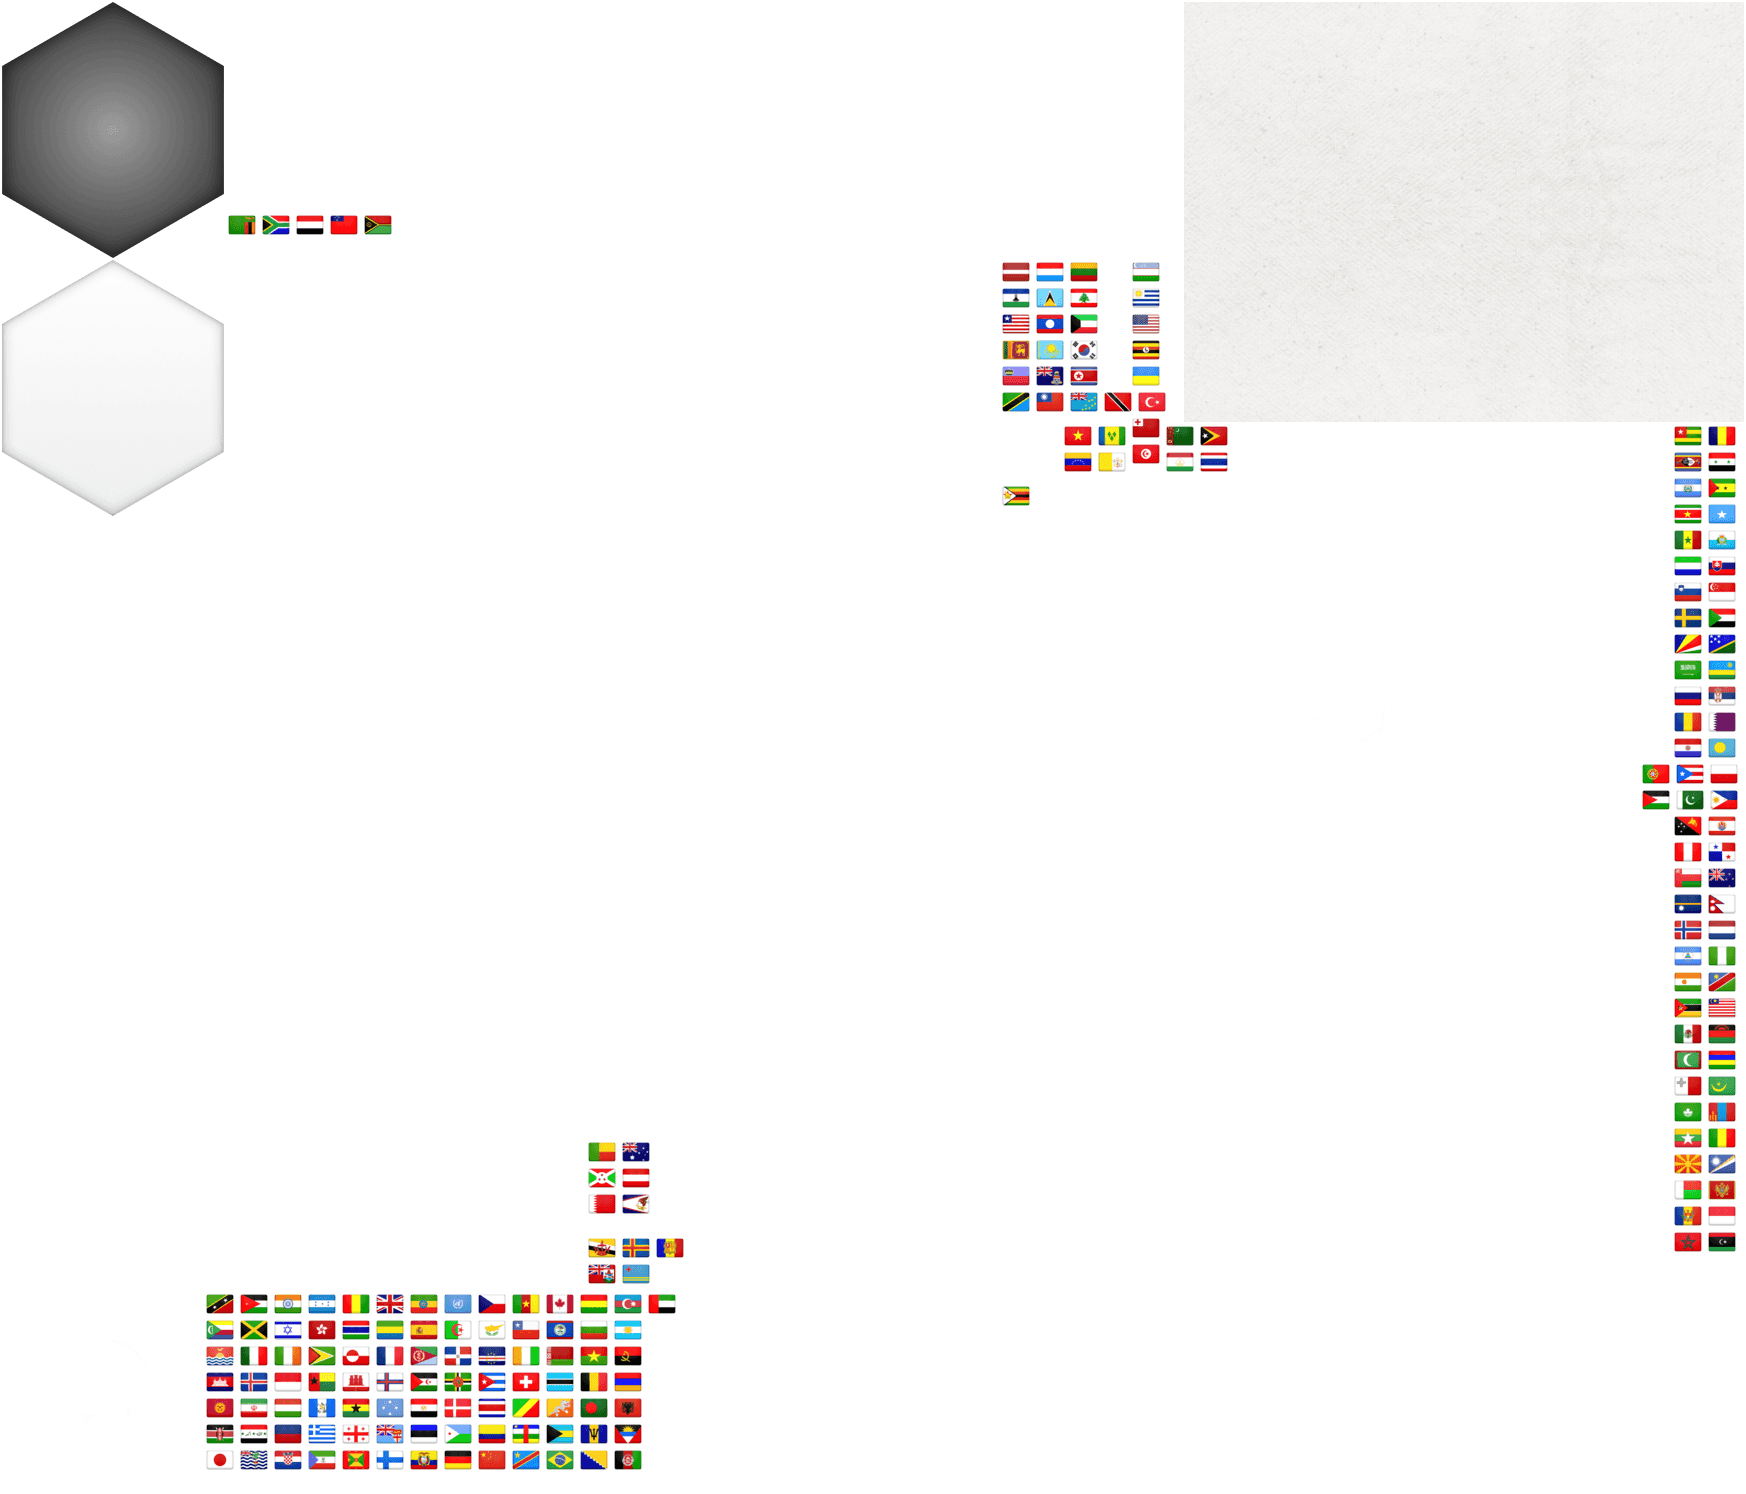
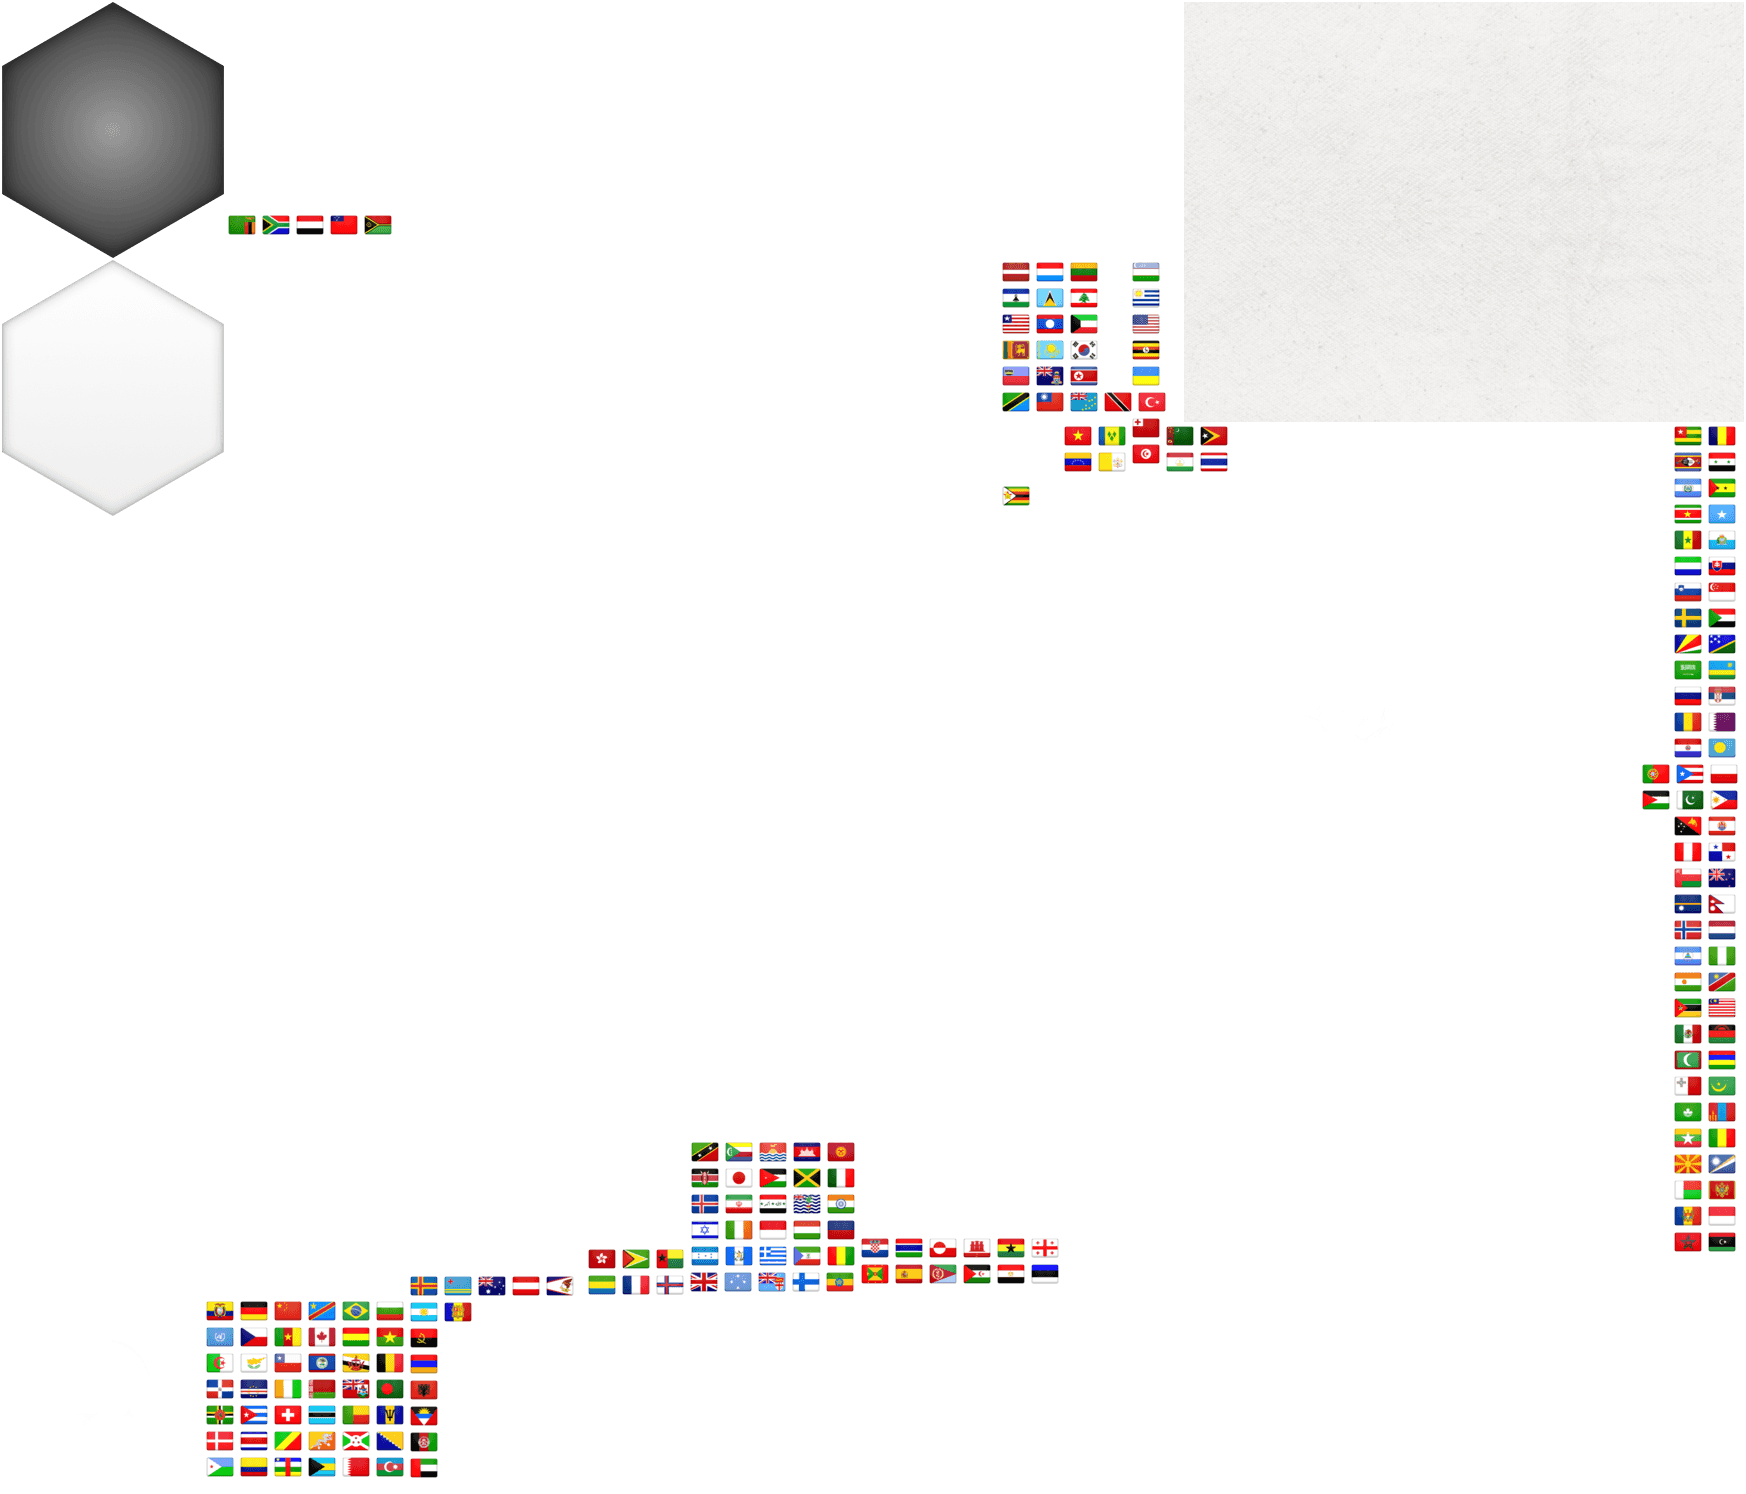
Great Work (View)

Changed region(s): [[0.0928, 0.739, 0.6186, 1.0]]

diff --git a/packages/client/src/scenes/WorldScene.ts b/packages/client/src/scenes/WorldScene.ts
@@ -15,11 +15,13 @@ import {
 } from "pixi.js";
 import { Fonts } from "../Fonts";
 import { Goods } from "../game/definitions/Goods";
+import { GreatWork, TileToGreatWork } from "../game/definitions/GreatWork";
 import type { Province } from "../game/definitions/Province";
 import type { Terrain } from "../game/definitions/Terrain";
 import { getTileName } from "../game/definitions/TileName";
 import { GameStateUpdated, RefreshOverlay, RefreshTiles } from "../game/Events";
 import { isLand, LandSize } from "../game/Land";
+import { getGameDate } from "../game/logic/GameDateTime";
 import { MapBackgroundColors, MapColorsH, MapForegroundColors, MapTextColors } from "../game/logic/MapColor";
 import { findProvinceLabelPosition } from "../game/logic/MapLogic";
 import { getProvinceName } from "../game/logic/ProvinceLogic";
@@ -159,7 +161,7 @@ export class WorldScene extends Scene {
       });
 
       RefreshOverlay.on(() => {
-         for (const [tile, visual] of this._overlayContainer.map) {
+         for (const [tile, tileData] of G.save.state.tiles) {
             this._renderOverlay(tile);
          }
       });
@@ -167,9 +169,9 @@ export class WorldScene extends Scene {
       GameStateUpdated.on(() => {
          switch (getOverlay()) {
             case "Upgrade": {
-               for (const [tile, visual] of this._overlayContainer.map) {
-                  const tileData = G.save.state.tiles.get(tile);
-                  if (tileData) {
+               for (const [tile, tileData] of G.save.state.tiles) {
+                  const visual = this._overlayContainer.map.get(tile);
+                  if (visual) {
                      const text = visual as UnicodeText;
                      text.text = `${tileData.infrastructure + tileData.production + tileData.population}`;
                      this._adjustTextSize(text);
@@ -178,9 +180,9 @@ export class WorldScene extends Scene {
                break;
             }
             case "Defense": {
-               for (const [tile, visual] of this._overlayContainer.map) {
-                  const tileData = G.save.state.tiles.get(tile);
-                  if (tileData) {
+               for (const [tile, tileData] of G.save.state.tiles) {
+                  const visual = this._overlayContainer.map.get(tile);
+                  if (visual) {
                      const text = visual as UnicodeText;
                      text.text = `${round(getTileDefense(tile, G.save).value, 1)}`;
                      this._adjustTextSize(text);
@@ -189,12 +191,22 @@ export class WorldScene extends Scene {
                break;
             }
             case "Maintenance": {
-               for (const [tile, visual] of this._overlayContainer.map) {
-                  const tileData = G.save.state.tiles.get(tile);
-                  if (tileData) {
+               for (const [tile, tileData] of G.save.state.tiles) {
+                  const visual = this._overlayContainer.map.get(tile);
+                  if (visual) {
                      const text = visual as UnicodeText;
                      text.text = `${round(getTileMaintenanceCost(tile, G.save).value, 1)}`;
                      this._adjustTextSize(text);
+                  }
+               }
+               break;
+            }
+            case "GreatWorks": {
+               for (const [tile, tileData] of G.save.state.tiles) {
+                  const visual = this._overlayContainer.map.get(tile);
+                  const gw = TileToGreatWork.get(tile);
+                  if (visual && gw) {
+                     visual.visible = getGameDate(G.save.state.tick).getFullYear() >= GreatWork[gw].completionYear;
                   }
                }
                break;
@@ -290,6 +302,21 @@ export class WorldScene extends Scene {
             visual.anchor.set(0.5, 0.5);
             visual.position.set(x, y);
             visual.tint = MapForegroundColors[tileData.province];
+            break;
+         }
+         case "GreatWorks": {
+            const gw = TileToGreatWork.get(tile);
+            if (gw) {
+               const visual = new Sprite(G.textures.get("Misc/GreatWork"));
+               this._overlayContainer.map.set(tile, visual);
+               visual.anchor.set(0.5, 0.5);
+               visual.position.set(x, y - 5);
+               visual.scale.set(0.5);
+               visual.tint = MapForegroundColors[tileData.province];
+               visual.visible = getGameDate(G.save.state.tick).getFullYear() >= GreatWork[gw].completionYear;
+            } else {
+               this._overlayContainer.map.delete(tile);
+            }
             break;
          }
       }

diff --git a/packages/client/src/scenes/Overlays.ts b/packages/client/src/scenes/Overlays.ts
@@ -18,6 +18,7 @@ export const Overlays = {
    Upgrade: () => $t(L.Upgrade),
    Defense: () => $t(L.Defense),
    Maintenance: () => $t(L.Maintenance),
+   GreatWorks: () => $t(L.GreatWorks),
 } as const satisfies Record<string, () => string>;
 
 export type OverlayType = keyof typeof Overlays;

diff --git a/packages/client/src/game/logic/MapColor.ts b/packages/client/src/game/logic/MapColor.ts
@@ -23,7 +23,7 @@ export const MapForegroundColors: Record<Province, number> = fromEntries(
    Provinces.map((province) => {
       const h = MapColorsH[province];
       const s = 40;
-      const l = 60;
+      const l = 50;
       return [province, hslToRgb(h, s, l)];
    }),
 );
